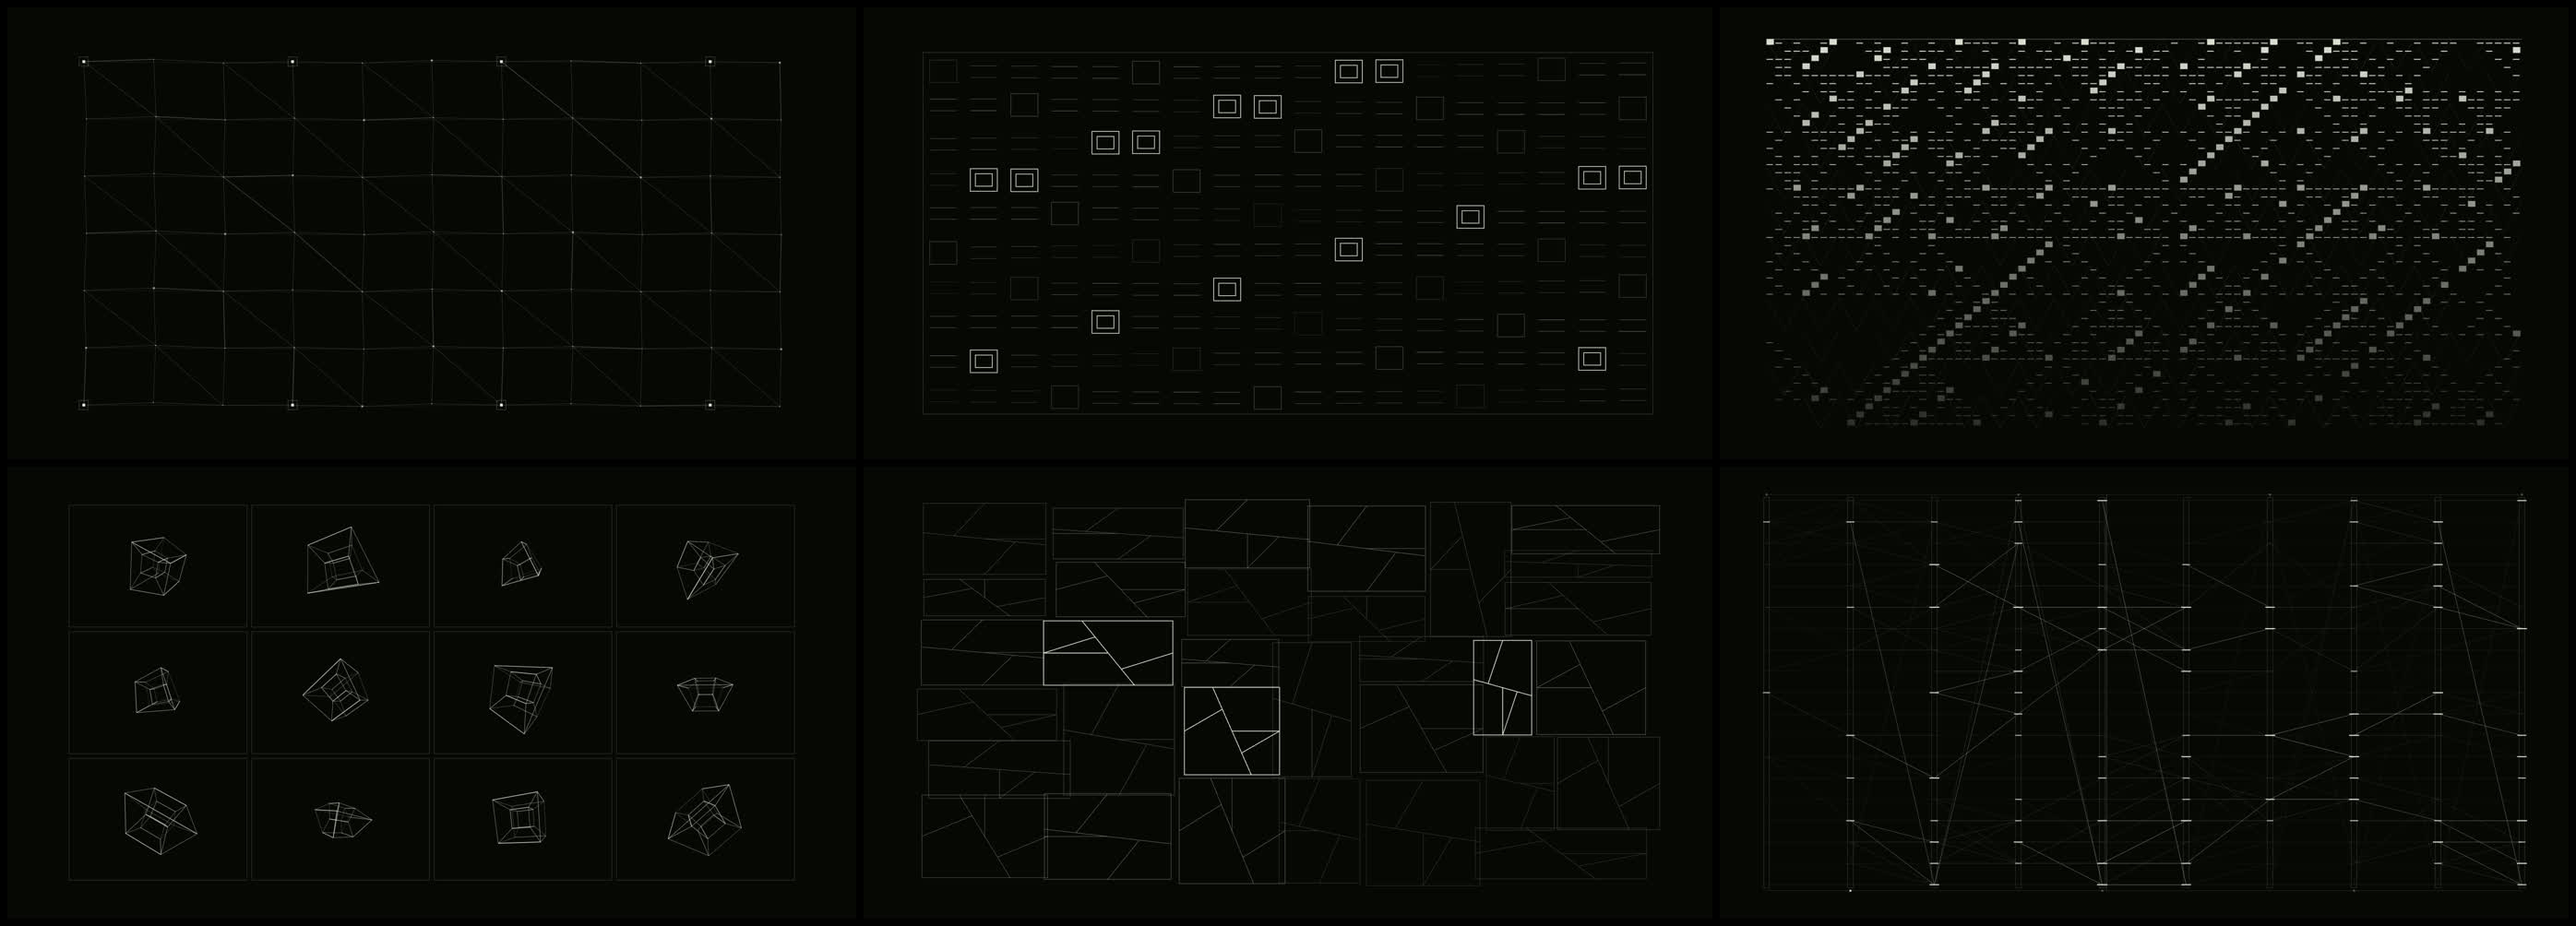
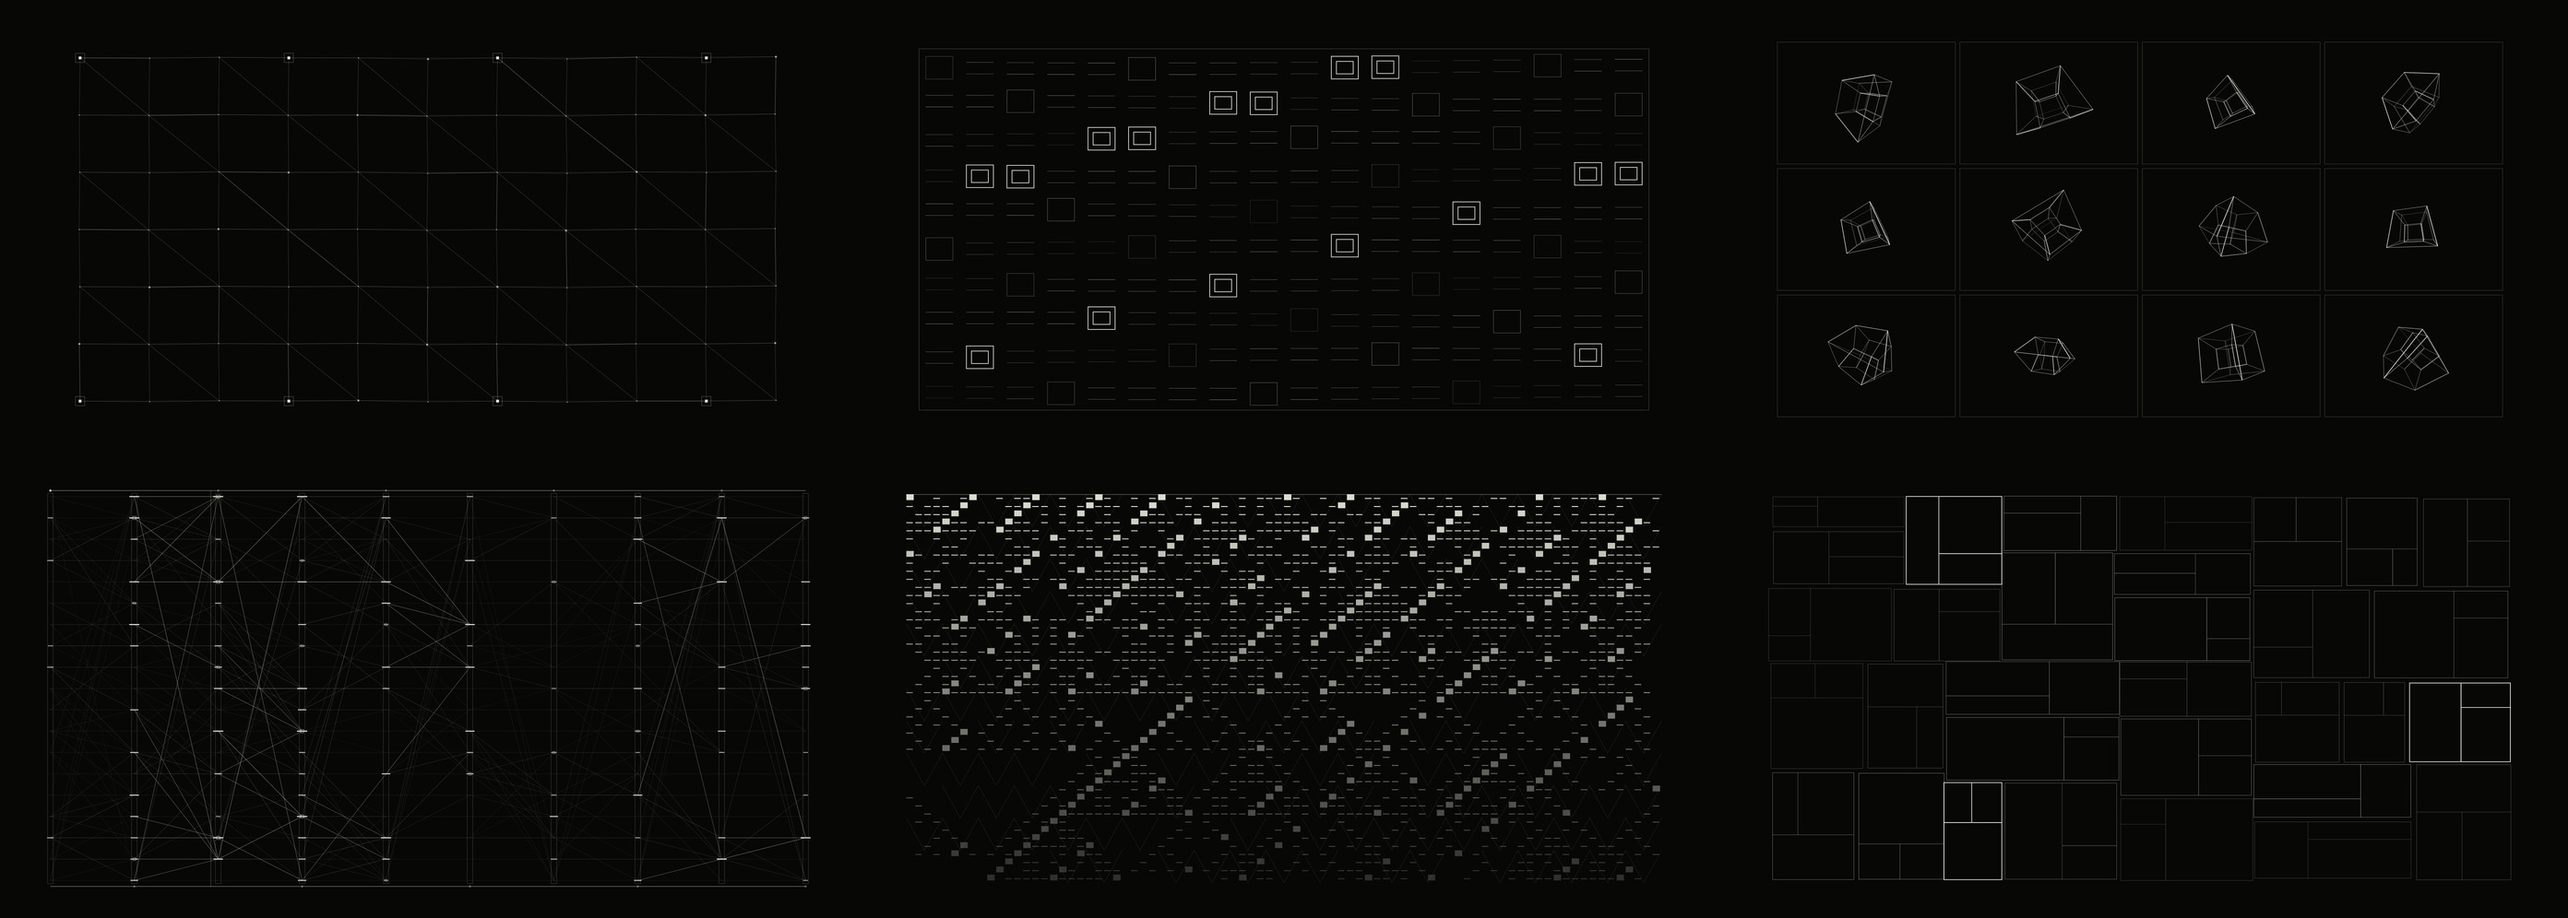
Make NFIR playback ordered

diff --git a/works/no-further-input-required-v0.html b/works/no-further-input-required-v0.html
@@ -6,7 +6,7 @@
   <meta name="theme-color" content="#070805" />
   <link rel="icon" href="data:," />
   <title>No Further Input Required — V0 Runtime</title>
-  <meta name="description" content="《无需进一步输入》浏览器 V0：六个实时视觉状态、加权状态转换、音频输入与 NEXT / HOLD / AUTO 控制。" />
+  <meta name="description" content="《无需进一步输入》浏览器 V0：六个实时视觉状态、固定顺序状态转换、音频输入与 NEXT / HOLD / AUTO 控制。" />
   <style>
     :root {
       color-scheme: dark;
@@ -544,48 +544,42 @@
           name: '约束机构',
           short: 'CONSTRAINT',
           description: '关节、拉杆与锚点组成持续求解的机械约束场。',
-          duration: [13, 19],
-          weights: [0, .31, .25, .18, .16, .10]
+          duration: [13, 19]
         },
         {
           id: 'index',
           name: '索引场',
           short: 'INDEX FIELD',
           description: '规则网格把连续声音量化为离散位置与局部位移。',
-          duration: [12, 18],
-          weights: [.14, 0, .30, .26, .18, .12]
+          duration: [12, 18]
         },
         {
           id: 'projection',
           name: '高维投影',
           short: 'PROJECTION',
           description: '超立方体在多个旋转平面之间变换，并被投影窗口重新切分。',
-          duration: [14, 20],
-          weights: [.17, .12, 0, .27, .30, .14]
+          duration: [14, 20]
         },
         {
           id: 'inference',
           name: '信号层',
           short: 'SIGNAL LAYERS',
           description: '离散激活穿过多层矩阵，连接只在阈值被满足时短暂出现。',
-          duration: [11, 17],
-          weights: [.20, .16, .18, 0, .30, .16]
+          duration: [11, 17]
         },
         {
           id: 'quantized',
           name: '量化记忆',
           short: 'QUANTIZED',
           description: '二值规则逐行计算、覆盖并保留有限长度的机器记忆。',
-          duration: [15, 22],
-          weights: [.20, .17, .22, .16, 0, .25]
+          duration: [15, 22]
         },
         {
           id: 'assembly',
           name: '递归装配',
           short: 'ASSEMBLY',
           description: '同一组矩形模块按照递归分割规则持续拆解和重新装配。',
-          duration: [12, 19],
-          weights: [.39, .21, .12, .15, .13, 0]
+          duration: [12, 19]
         }
       ];
 
@@ -712,16 +706,6 @@
         }
       }
 
-      function weightedNext(fromIndex) {
-        const weights = stateDefinitions[fromIndex].weights;
-        let draw = Math.random() * weights.reduce((total, weight) => total + weight, 0);
-        for (let index = 0; index < weights.length; index += 1) {
-          draw -= weights[index];
-          if (draw <= 0 && index !== fromIndex) return index;
-        }
-        return (fromIndex + 1) % stateDefinitions.length;
-      }
-
       function logOperation(type, detail = {}) {
         operationLog.push({ type, at: Math.round(performance.now() - runStartedAt), state: stateDefinitions[currentIndex].id, ...detail });
         if (operationLog.length > 120) operationLog.shift();
@@ -729,7 +713,7 @@
 
       function requestTransition(reason, forcedIndex = null) {
         if (transition) return;
-        nextIndex = forcedIndex ?? weightedNext(currentIndex);
+        nextIndex = forcedIndex ?? (currentIndex + 1) % stateDefinitions.length;
         if (nextIndex === currentIndex) nextIndex = (currentIndex + 1) % stateDefinitions.length;
         transition = {
           from: currentIndex,
@@ -1379,9 +1363,9 @@
         if (data.lastBeat !== audio.beatCount) {
           data.lastBeat = audio.beatCount;
           data.counter = audio.beatCount % 10 + 1;
-          if (audio.beatCount % 2 === 0 || audio.onset > .72) {
-            data.flashType = Math.floor(signalHash(data.seed + audio.beatCount * 17) * 4);
-            data.flashUntil = now + 66 + data.flashType * 31;
+          if (audio.beatCount % 4 === 0 || audio.onset > .84) {
+            data.flashType = Math.floor(signalHash(data.seed + audio.beatCount * 17) * 3);
+            data.flashUntil = now + 72 + data.flashType * 24;
           }
         }
 
@@ -1516,40 +1500,42 @@
         targetCtx.fillRect(scanX, top - 13, .8, bottom - top + 26);
 
         if (now < data.flashUntil) {
-          const flashAlpha = clamp((data.flashUntil - now) / 72);
-          const digitFont = `500 ${Math.max(12, Math.min(width, height) * .021)}px "SFMono-Regular", Consolas, monospace`;
-          targetCtx.font = digitFont;
+          const flashAlpha = clamp((data.flashUntil - now) / 96);
+          const digitSize = Math.max(9, Math.min(13, Math.min(width, height) * .014));
+          targetCtx.font = `500 ${digitSize}px "SFMono-Regular", Consolas, monospace`;
           targetCtx.textBaseline = 'middle';
-          targetCtx.letterSpacing = '0';
+          targetCtx.strokeStyle = `rgba(232,234,223,${.22 + flashAlpha * .3})`;
+          targetCtx.fillStyle = `rgba(232,234,223,${.44 + flashAlpha * .46})`;
           if (data.flashType === 0) {
-            const bandY = top + ((audio.beatCount * 7) % units) * unitGap;
-            targetCtx.fillStyle = `rgba(232,234,223,${.72 + flashAlpha * .28})`;
-            targetCtx.fillRect(left, bandY - unitGap * .58, right - left, unitGap * 1.16);
-            targetCtx.fillStyle = palette.bg;
+            const registerY = audio.beatCount % 2 === 0 ? top - 27 : bottom + 27;
             targetCtx.textAlign = 'center';
-            const sequence = Array.from({ length: 10 }, (_, index) => String(index + 1).padStart(2, '0'));
-            sequence.forEach((digit, index) => targetCtx.fillText(digit, left + (index + .5) * (right - left) / 10, bandY));
+            const sequence = Array.from({ length: 10 }, (_, index) => String(index));
+            const registerWidth = Math.min(right - left, 10 * Math.max(24, layerGap * .52));
+            const registerLeft = left + ((right - left) - registerWidth) * .5;
+            targetCtx.strokeRect(registerLeft, registerY - digitSize, registerWidth, digitSize * 2);
+            sequence.forEach((digit, index) => {
+              const digitX = registerLeft + (index + .5) * registerWidth / 10;
+              targetCtx.fillStyle = index === data.counter % 10
+                ? `rgba(232,234,223,${.72 + flashAlpha * .28})`
+                : `rgba(232,234,223,${.22 + flashAlpha * .34})`;
+              targetCtx.fillText(digit, digitX, registerY);
+            });
           } else if (data.flashType === 1) {
-            targetCtx.fillStyle = `rgba(232,234,223,${.5 + flashAlpha * .45})`;
             targetCtx.textAlign = 'center';
             for (let layerIndex = 0; layerIndex < layerCount; layerIndex += 1) {
               const value = data.values[layerIndex][(audio.beatCount + layerIndex * 3) % units];
-              targetCtx.fillText(String(Math.floor(value * 9)), left + layerIndex * layerGap, height * .5);
+              const digitY = top + ((audio.beatCount * 3 + layerIndex * 2) % units) * unitGap;
+              targetCtx.fillStyle = `rgba(232,234,223,${.34 + value * .56 * flashAlpha})`;
+              targetCtx.fillText(String(Math.floor(value * 9)), left + layerIndex * layerGap, digitY);
             }
-          } else if (data.flashType === 2) {
-            targetCtx.fillStyle = `rgba(232,234,223,${.64 + flashAlpha * .36})`;
-            targetCtx.textAlign = 'left';
-            targetCtx.font = `500 ${Math.max(48, Math.min(width, height) * .18)}px "SFMono-Regular", Consolas, monospace`;
-            targetCtx.fillText(String(data.counter).padStart(2, '0'), left, height * .5);
           } else {
             const column = audio.beatCount % layerCount;
             const x = left + column * layerGap;
-            targetCtx.fillStyle = `rgba(232,234,223,${.58 + flashAlpha * .42})`;
-            targetCtx.fillRect(x - layerGap * .42, top, layerGap * .84, bottom - top);
-            targetCtx.fillStyle = palette.bg;
             targetCtx.textAlign = 'center';
-            for (let unit = 0; unit < units; unit += 1) {
-              targetCtx.fillText(String((unit + data.counter) % 10), x, top + unit * unitGap);
+            const startUnit = Math.max(0, (audio.beatCount * 3) % (units - 5));
+            targetCtx.strokeRect(x - digitSize, top + startUnit * unitGap - digitSize, digitSize * 2, unitGap * 4 + digitSize * 2);
+            for (let offset = 0; offset < 5; offset += 1) {
+              targetCtx.fillText(String((offset + data.counter) % 10), x, top + (startUnit + offset) * unitGap);
             }
           }
         }
@@ -1751,43 +1737,33 @@
           targetCtx.lineWidth = active ? 1.65 : .84;
           targetCtx.strokeRect(x, y, w, h);
           if (w > 28 && h > 20) {
-            let x1;
-            let y1;
-            let x2;
-            let y2;
-            if (index % 2 === 0) {
-              const hinge = clamp(.2 + audio.low * .6);
-              x1 = x;
-              y1 = y + h * hinge;
-              x2 = x + w;
-              y2 = y + h * (1 - hinge);
-            } else {
-              const hinge = clamp(.2 + audio.high * .6);
-              x1 = x + w * hinge;
-              y1 = y;
-              x2 = x + w * (1 - hinge);
-              y2 = y + h;
-            }
-            const mx = (x1 + x2) * .5;
-            const my = (y1 + y2) * .5;
             targetCtx.beginPath();
-            targetCtx.moveTo(x1, y1);
-            targetCtx.lineTo(x2, y2);
-            if (data.subdivisionDepth >= 1) {
-              const anchorX = index % 3 === 0 ? x + w * .5 : index % 3 === 1 ? x : x + w;
-              const anchorY = index % 3 === 0 ? (index % 2 ? y : y + h) : y + h * .5;
-              targetCtx.moveTo(mx, my);
-              targetCtx.lineTo(anchorX, anchorY);
-            }
-            if (data.subdivisionDepth >= 2 && w > 48 && h > 36) {
-              const q1x = lerp(x1, x2, .25);
-              const q1y = lerp(y1, y2, .25);
-              const q3x = lerp(x1, x2, .75);
-              const q3y = lerp(y1, y2, .75);
-              targetCtx.moveTo(q1x, q1y);
-              targetCtx.lineTo(index % 2 ? x : x + w * .5, index % 2 ? y + h * .5 : y);
-              targetCtx.moveTo(q3x, q3y);
-              targetCtx.lineTo(index % 2 ? x + w : x + w * .5, index % 2 ? y + h * .5 : y + h);
+            const vertical = w > h * 1.08 ? true : h > w * 1.08 ? false : (index + data.rhythmMode) % 2 === 0;
+            const split = clamp(.32 + (index % 5) * .085 + (vertical ? audio.low : audio.high) * .07, .3, .7);
+            const branchA = clamp(.3 + (index % 3) * .17 + audio.mid * .06, .28, .72);
+            const branchB = 1 - branchA;
+            if (vertical) {
+              const splitX = x + w * split;
+              targetCtx.moveTo(splitX, y);
+              targetCtx.lineTo(splitX, y + h);
+              const firstOnLeft = index % 2 === 0;
+              targetCtx.moveTo(firstOnLeft ? x : splitX, y + h * branchA);
+              targetCtx.lineTo(firstOnLeft ? splitX : x + w, y + h * branchA);
+              if (data.subdivisionDepth >= 2 && w > 48 && h > 36) {
+                targetCtx.moveTo(firstOnLeft ? splitX : x, y + h * branchB);
+                targetCtx.lineTo(firstOnLeft ? x + w : splitX, y + h * branchB);
+              }
+            } else {
+              const splitY = y + h * split;
+              targetCtx.moveTo(x, splitY);
+              targetCtx.lineTo(x + w, splitY);
+              const firstOnTop = index % 2 === 0;
+              targetCtx.moveTo(x + w * branchA, firstOnTop ? y : splitY);
+              targetCtx.lineTo(x + w * branchA, firstOnTop ? splitY : y + h);
+              if (data.subdivisionDepth >= 2 && w > 48 && h > 36) {
+                targetCtx.moveTo(x + w * branchB, firstOnTop ? splitY : y);
+                targetCtx.lineTo(x + w * branchB, firstOnTop ? y + h : splitY);
+              }
             }
             targetCtx.stroke();
           }
@@ -1837,21 +1813,6 @@
           ctx.fillRect(x, seamY, bandWidth, .7);
         }
 
-        if (progress > .31 && progress < .69) {
-          const pulse = Math.floor(progress * 100) % 4;
-          if (pulse === 0 || pulse === 1) {
-            const sequence = Array.from({ length: 10 }, (_, index) => String(index + 1).padStart(2, '0'));
-            const y = height * (.46 + (transition.to % 3 - 1) * .08);
-            ctx.font = `500 ${Math.max(10, Math.min(width, height) * .018)}px "SFMono-Regular", Consolas, monospace`;
-            ctx.textAlign = 'center';
-            ctx.textBaseline = 'middle';
-            sequence.forEach((digit, index) => {
-              const x = (index + .5) * width / sequence.length;
-              ctx.fillStyle = index === transition.to + 1 ? palette.ink : `rgba(232,234,223,${pulse === 0 ? .42 : .18})`;
-              ctx.fillText(digit, x, y);
-            });
-          }
-        }
       }
 
       function render(now) {

diff --git a/works/no-further-input-required.html b/works/no-further-input-required.html
@@ -352,7 +352,7 @@
         <div class="meta-item"><span class="meta-label">Status</span><span class="meta-value">Work in Progress</span></div>
       </div>
       <div class="status-overview" aria-label="当前开发状态">
-        <div class="status-block implemented"><strong>已实现 / Implemented V0</strong><p>6 个视觉状态、数字寄存器式瞬时脉冲、transition graph、可选择设备的浏览器音频输入、NEXT / HOLD / AUTO 与可运行预览。</p></div>
+        <div class="status-block implemented"><strong>已实现 / Implemented V0</strong><p>6 个视觉状态、小型数字寄存器脉冲、固定顺序的循环状态链、可选择设备的浏览器音频输入、NEXT / HOLD / AUTO 与可运行预览。</p></div>
         <div class="status-block"><strong>开发中 / Developing</strong><p>phrase 检测调校、声音设计、长时间稳定性与最终 8–10 分钟影像结构。</p></div>
         <div class="status-block research"><strong>研究假设 / Research</strong><p>preference history 与自动调整转移权重尚未实现，当前系统不会学习或吸收艺术家偏好。</p></div>
       </div>
@@ -366,7 +366,7 @@
         </div>
         <div class="body-copy">
           <p>《无需进一步输入》围绕自动化与人类判断之间的关系展开。当前 V0 已把艺术家选择的视觉模块、持续时间范围与状态转移关系写进一个能够自行运行的浏览器系统。</p>
-          <p>当持续操作减少以后，人的判断并未随之消失：它已经存在于被保留的 visual behaviours、规则、参数与初始转移权重中。让系统根据长期操作记录自行修改权重仍是研究假设，尚未进入当前实现。</p>
+          <p>当持续操作减少以后，人的判断并未随之消失：它已经存在于被保留的 visual behaviours、规则、参数与固定状态顺序中。让系统根据长期操作记录自行改变时间结构仍是研究假设，尚未进入当前实现。</p>
           <div class="update-note">
             <div class="date">Direction update / 2026.08.15</div>
             <p>当前方向进一步从“关于自动化的一条影像”发展为“一套能够实际运行的生成式音画系统，以及由该系统产生的单通道影像与现场版本”。概念需要进入真实运行机制，而不只停留在作品说明中。</p>
@@ -388,7 +388,7 @@
             <div class="flow-step"><span>02</span><strong>Visual possibilities</strong></div>
             <div class="flow-step"><span>03</span><strong>Human selection / deletion</strong></div>
             <div class="flow-step"><span>04</span><strong>Approved visual vocabulary</strong></div>
-            <div class="flow-step"><span>05</span><strong>Transitions / timing / weights</strong></div>
+            <div class="flow-step"><span>05</span><strong>Ordered transitions / timing</strong></div>
             <div class="flow-step"><span>06</span><strong>Autonomous audiovisual runtime</strong></div>
           </div>
           <div class="state-grid" aria-label="Six-state prototype sketch">
@@ -431,7 +431,7 @@
           </article>
           <article class="card">
             <h3>State Machine</h3>
-            <p>当前状态机使用每个状态独立的 duration range 与加权 transition graph 组织时间；状态不再通过普通 crossfade 切换，而经过拆解、校准与重组的机械遮板过程。</p>
+            <p>当前状态机为每个状态保留独立的 duration range，并固定按 1→2→3→4→5→6→1 循环；状态不再通过普通 crossfade 切换，而经过拆解、校准与重组的机械遮板过程。</p>
             <div class="status">Implemented / V0</div>
           </article>
           <article class="card">
@@ -446,7 +446,7 @@
           </article>
           <article class="card">
             <h3>Preference History</h3>
-            <p>当前只在内存中保留本次运行的操作事件，既不跨会话保存，也不用于修改 duration 或 transition weight。偏好历史仍属于下一阶段研究。</p>
+            <p>当前只在内存中保留本次运行的操作事件，既不跨会话保存，也不用于改变 duration 或固定状态顺序。偏好历史仍属于下一阶段研究。</p>
             <div class="status">Research hypothesis / Not implemented</div>
           </article>
         </div>
@@ -598,7 +598,7 @@
         </div>
         <div class="todo">
           <div class="todo-item"><span>01</span><div><strong>已实现：</strong>6 个独立 visual states / behaviours。</div></div>
-          <div class="todo-item"><span>02</span><div><strong>已实现：</strong>1 个有向加权 transition graph，以及“拆解—校准—重组”的机械切换。</div></div>
+          <div class="todo-item"><span>02</span><div><strong>已实现：</strong>1 条固定顺序的循环状态链，以及“拆解—校准—重组”的机械切换。</div></div>
           <div class="todo-item"><span>03</span><div><strong>已实现 V0：</strong>麦克风设备选择、本地音频与 demo signal；beat / phrase 分析仍在调校。</div></div>
           <div class="todo-item"><span>04</span><div><strong>已实现：</strong>NEXT / HOLD / AUTO 与键盘控制。</div></div>
           <div class="todo-item"><span>05</span><div><strong>开发中：</strong>10–20 分钟连续运行、不同输入与设备的稳定性验证。</div></div>

diff --git a/projects/no-further-input-required-devlog-2026-08-16.md b/projects/no-further-input-required-devlog-2026-08-16.md
@@ -80,10 +80,10 @@
 ### 已实现
 
 - 六个独立视觉状态及其内部变体；
-- 有向加权 transition graph 与约 1.18 秒机械遮板转场；
+- 固定按 1→2→3→4→5→6→1 循环的状态链，与约 1.18 秒机械遮板转场；
 - 麦克风设备选择、本地音频与 demo signal；
 - `NEXT / HOLD / AUTO` 与默认隐藏的控制层；
-- 会话内操作日志，不跨会话保存，也不修改权重。
+- 会话内操作日志，不跨会话保存，也不改变状态顺序或持续时间。
 
 ### 开发中
 
